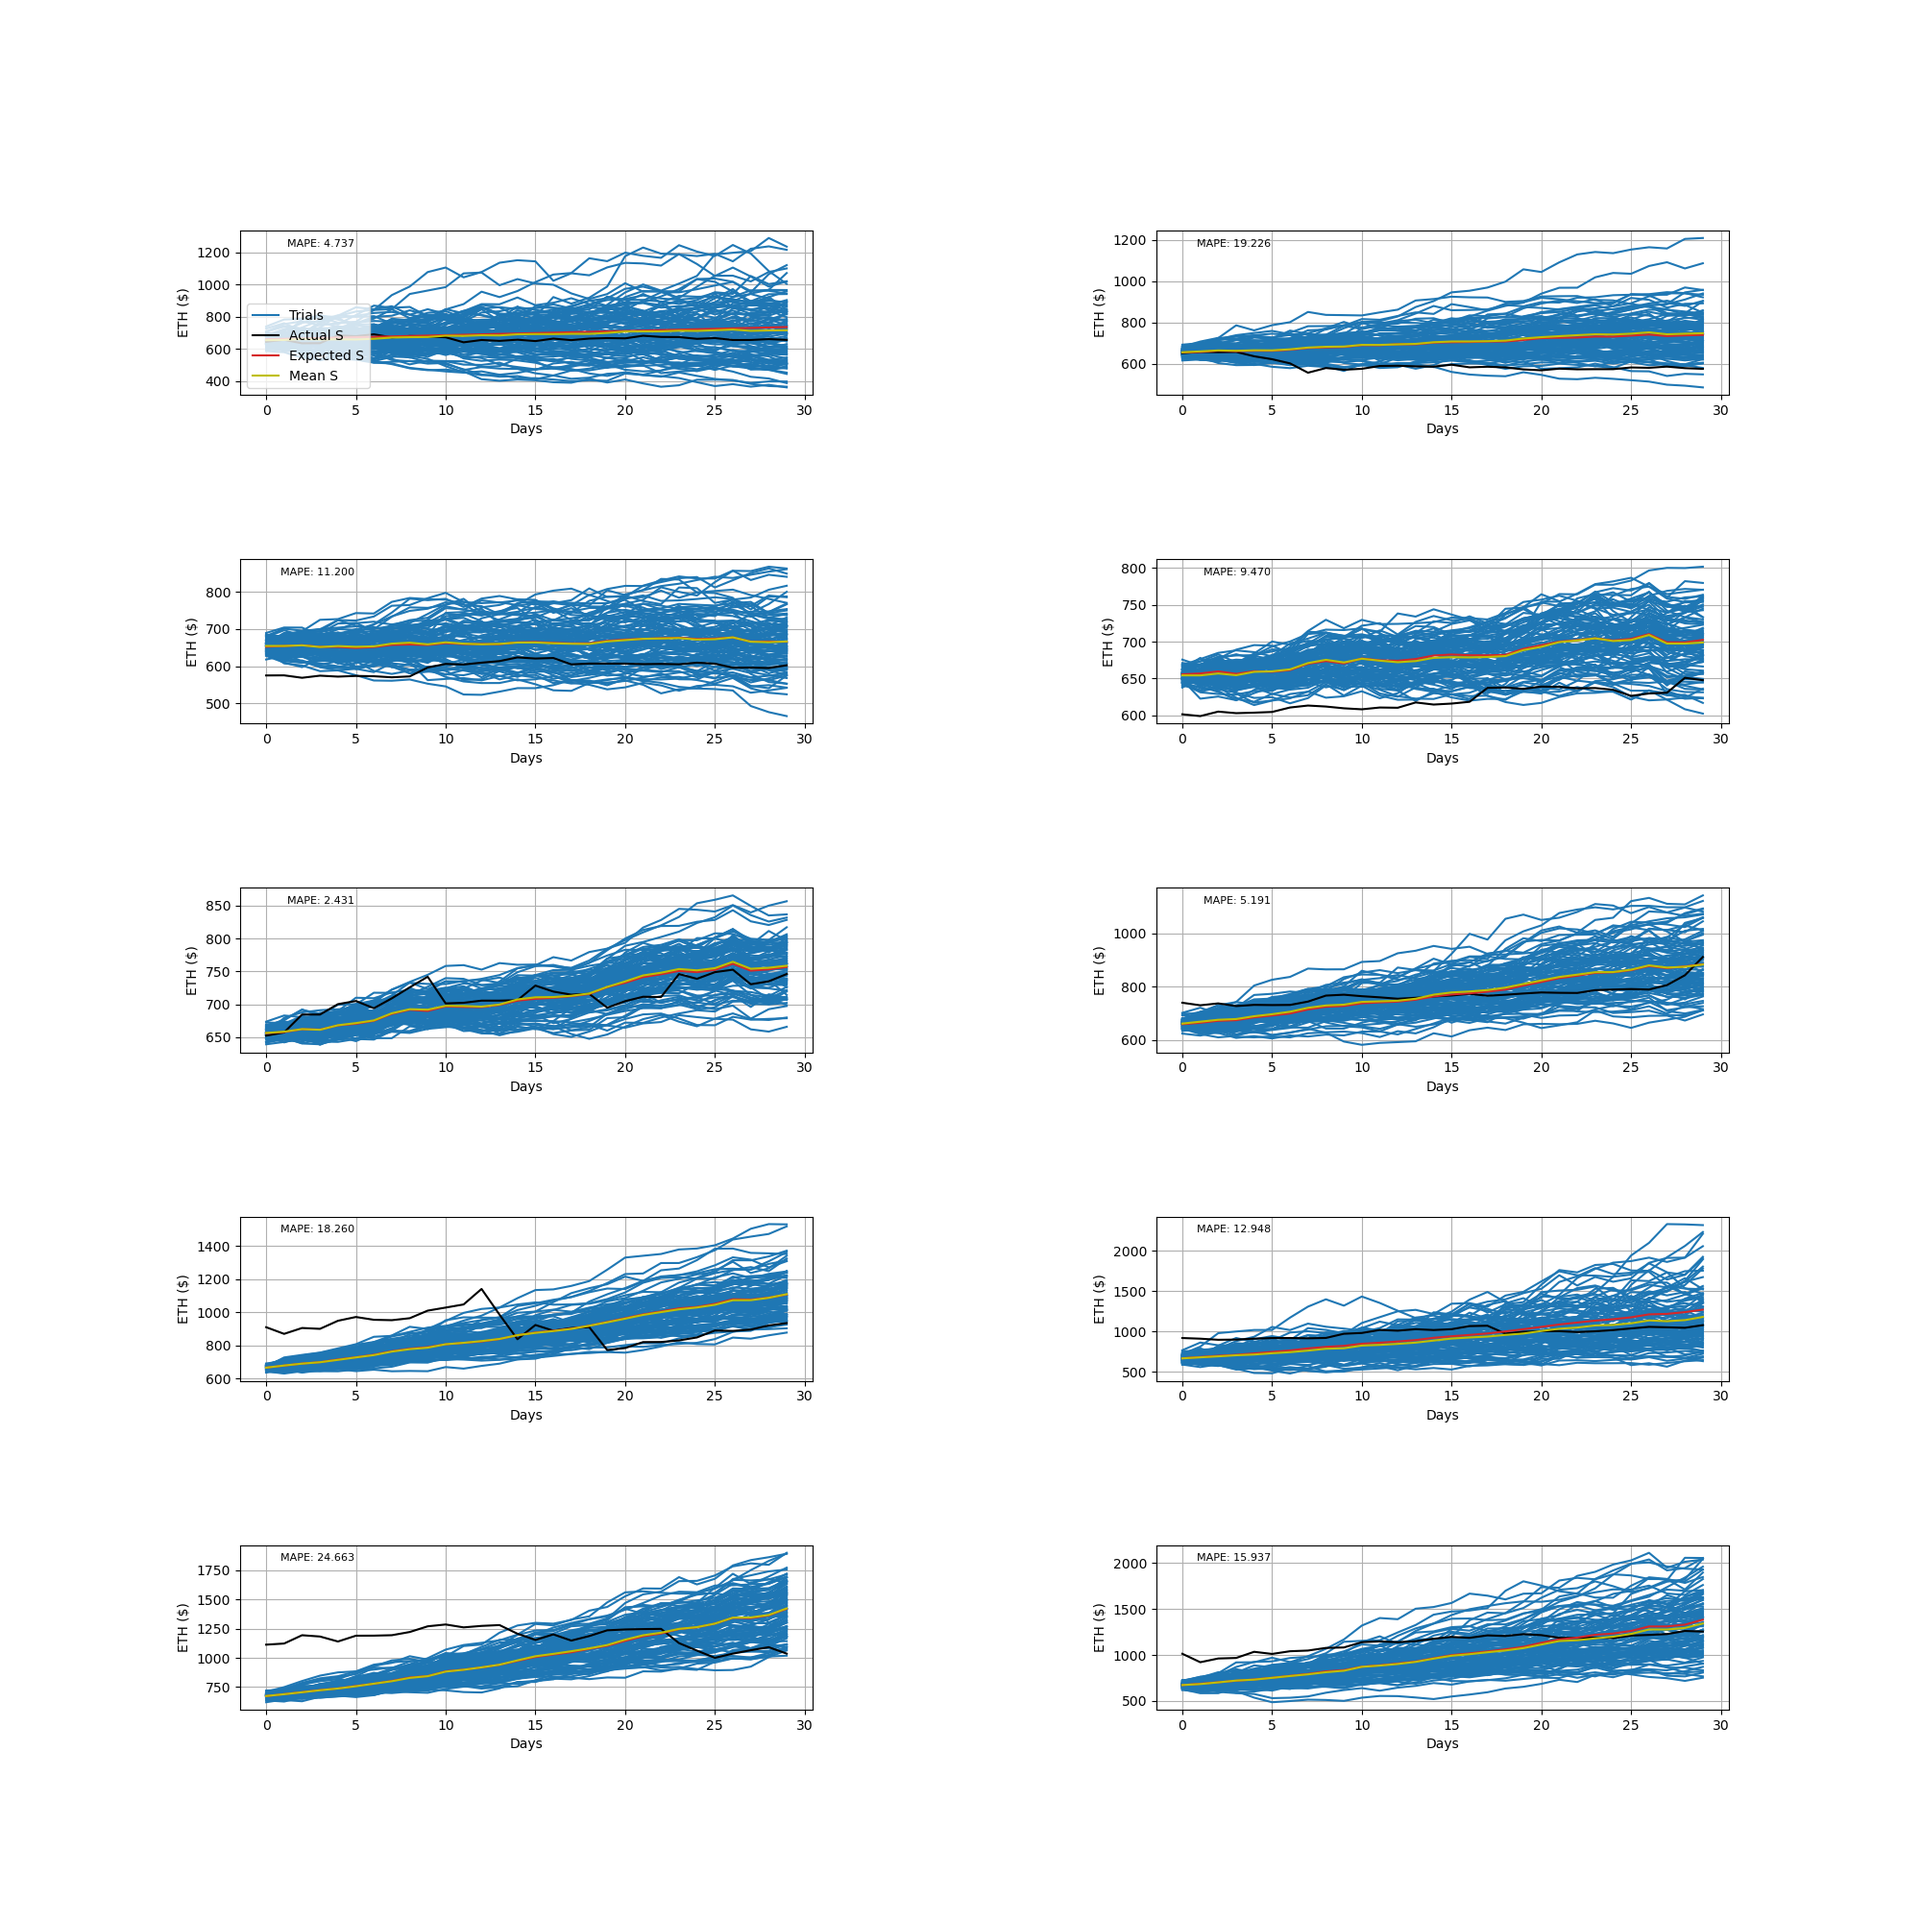
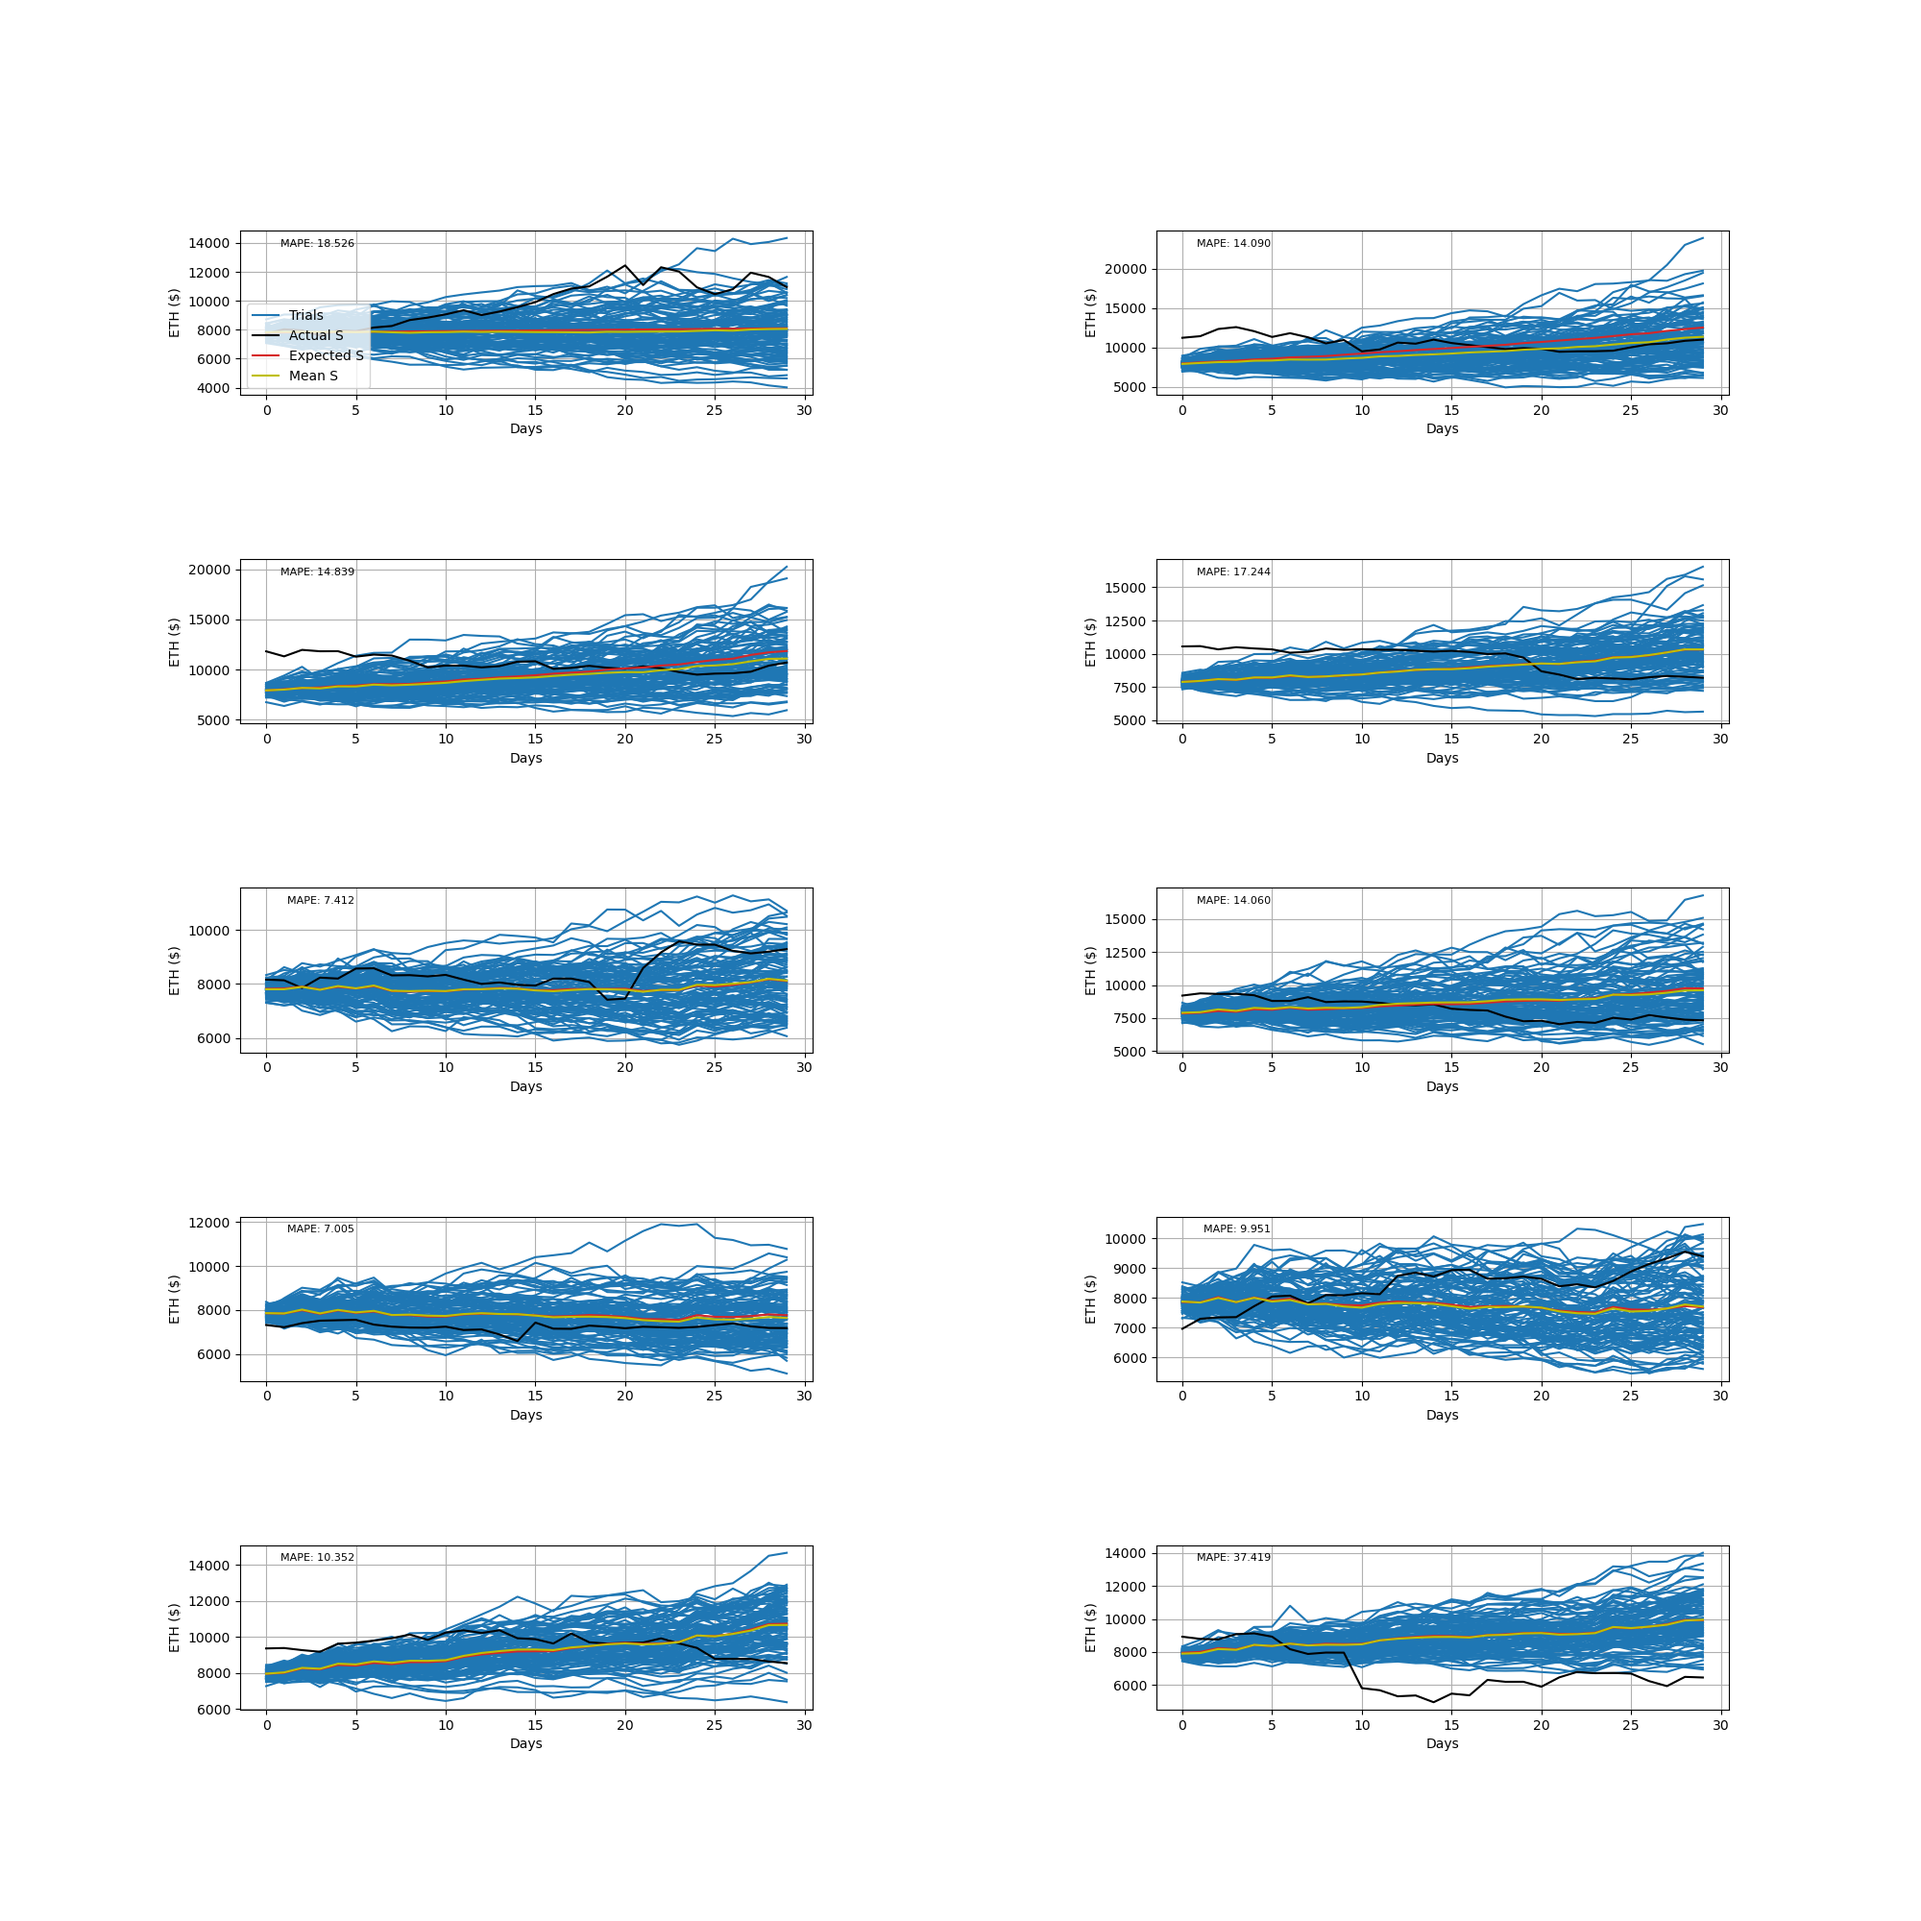
Added support for date range

diff --git a/code/classes/GBM_base.py b/code/classes/GBM_base.py
@@ -1,6 +1,7 @@
 import numpy as np
 import matplotlib.pyplot as plt
 import pandas as pd
+from datetime import datetime
 from sklearn.model_selection import train_test_split
 import warnings
 from classes.cryptocurrency import Crypto
@@ -24,6 +25,7 @@ class GBM_base(object):
         '''
 
         self.crypto = crypto
+        self.dates = pd.to_datetime(crypto.price_df['Date'])        
         self.pred_type = pred_type if pred_type=='rolling' else 'single'
         self.prices = crypto.get_df['Closing Price (USD)']
         self.hist_range = hist_range
@@ -225,21 +227,30 @@ class GBM_base(object):
         '''
         Function to generate and return the train set for both 'single' and 'rolling' prediction cases.
         '''
+        try:
+            start_date,end_date = pd.to_datetime(self.hist_range[0]),pd.to_datetime(self.hist_range[1])
+        except:
+            train_set = self.prices[0:200]
+            self.hist_range = [self.dates[0],self.dates[199]]
+            return train_set
+
         if isinstance(self.hist_range,list) and len(self.hist_range)==2 and \
-            isinstance(self.hist_range[0],int) and isinstance(self.hist_range[1],int) \
-            and self.hist_range[0]>=0 and self.hist_range[1]<len(self.prices)-1:
-            train_set = self.prices[self.hist_range[0]:self.hist_range[1]]
+            isinstance(self.hist_range[0],str) and isinstance(self.hist_range[1],str) \
+            and start_date>=self.dates[0] and end_date<self.dates.iloc[-1]:
+            start_idx,end_idx = self.dates[self.dates==start_date].index[0],self.dates[self.dates==end_date].index[0]
+            train_set = self.prices[start_idx:end_idx]
         else:
             train_set = self.prices[0:200]
-            self.hist_range = [0,200]
+            self.hist_range = [self.crypto.price_df['Date'][0],self.crypto.price_df['Date'][199]]
         return train_set
 
     def __get_test_sets(self):
         '''
         Function to generate and return multiple test sets for the rolling prediction case.
         '''
-        train_end_idx = self.hist_range[-1]
+        train_end_idx = self.dates[self.dates==self.hist_range[-1]].index[0].astype(int)
         available_test_range = len(self.prices)-train_end_idx-1
+
         if self.period*self.n_pred_periods<=available_test_range:
             full_test_set = self.prices[train_end_idx:train_end_idx+self.period*self.n_pred_periods]
             test_sets = np.split(full_test_set,self.n_pred_periods)

diff --git a/code/main.py b/code/main.py
@@ -9,17 +9,17 @@ if __name__=='__main__':
 
     '''
     Sample command for a single prediction:
-    python main.py --crypto btc --prediction single --n_paths 100 --h_range "0,1000" --n_pred_pts 100 --save_res Y
+    python main.py --crypto btc --prediction single --n_paths 100 --h_range "2018-06-06,2019-06-06" --n_pred_pts 100 --save_res Y
 
     Sample command for a rolling prediction:
-    python main.py --crypto btc --prediction rolling --n_paths 100 --h_range "0,1000" --n_periods 10 --period 30 --save_res Y
+    python main.py --crypto btc --prediction rolling --n_paths 100 --h_range "2018-06-06,2019-06-06" --n_periods 10 --period 30 --save_res Y
     '''
     
     parser.add_argument('--crypto',action='store',type=str,required=True,help='Cryptocurrency')
     parser.add_argument('--prediction',action='store',default='single',type=str,required=True,help='Type of prediction (single/rolling)')
     parser.add_argument('--n_paths',action='store',default=100,type=int,required=True,help='Number of random paths generated')
     parser.add_argument('--h_range',action='store',default=[0,1000],
-    type=lambda s: [int(item) for item in s.split(',')],required=False,
+    type=lambda s: [str(item) for item in s.split(',')],required=False,
     help='History range for training set, specified as "startIdx,endIdx"')
     parser.add_argument('--period',action='store',default=30,type=int,
     required=False,help='Time period for each prediction for the rolling case')

diff --git a/code/simulation.py b/code/simulation.py
@@ -6,5 +6,9 @@ from classes.GBM_base import GBM_base
 if __name__=='__main__':
     initial_capital = 1e5
     btc,xrp,ltc = Crypto('btc'),Crypto('xrp'),Crypto('ltc')
+    btc_range = btc.return_prices_over_range(start_date='2018-05-01',end_date='2019-05-01')
+    xrp_range = xrp.return_prices_over_range(start_date='2018-05-01',end_date='2019-05-01')
+    ltc_range = btc.return_prices_over_range(start_date='2018-05-01',end_date='2019-05-01')
+    print(btc_range)
 
-    
+

diff --git a/code/classes/cryptocurrency.py b/code/classes/cryptocurrency.py
@@ -13,6 +13,6 @@ class Crypto:
     
     def return_prices_over_range(self,start_date='2018-05-01',end_date='2019-05-01'):
         self.price_df['Date'] = pd.to_datetime(self.price_df['Date'])
-        mask = (self.price_df['date'] > start_date) & (self.price_df['date'] <= end_date)
+        mask = (self.price_df['Date'] > start_date) & (self.price_df['Date'] <= end_date)
         return self.price_df.loc[mask]
     
